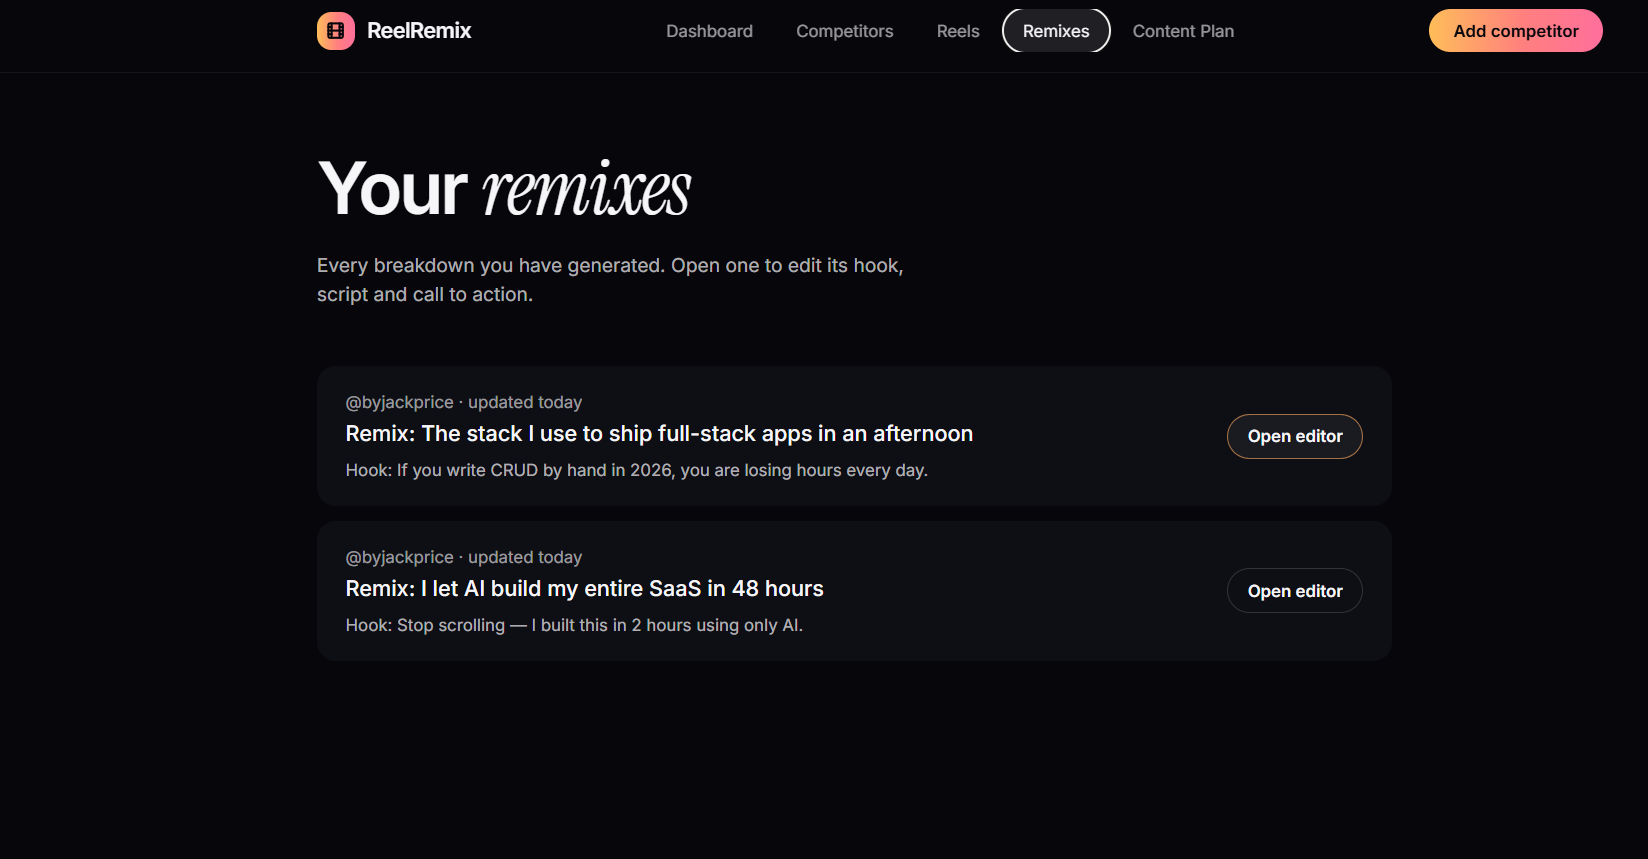
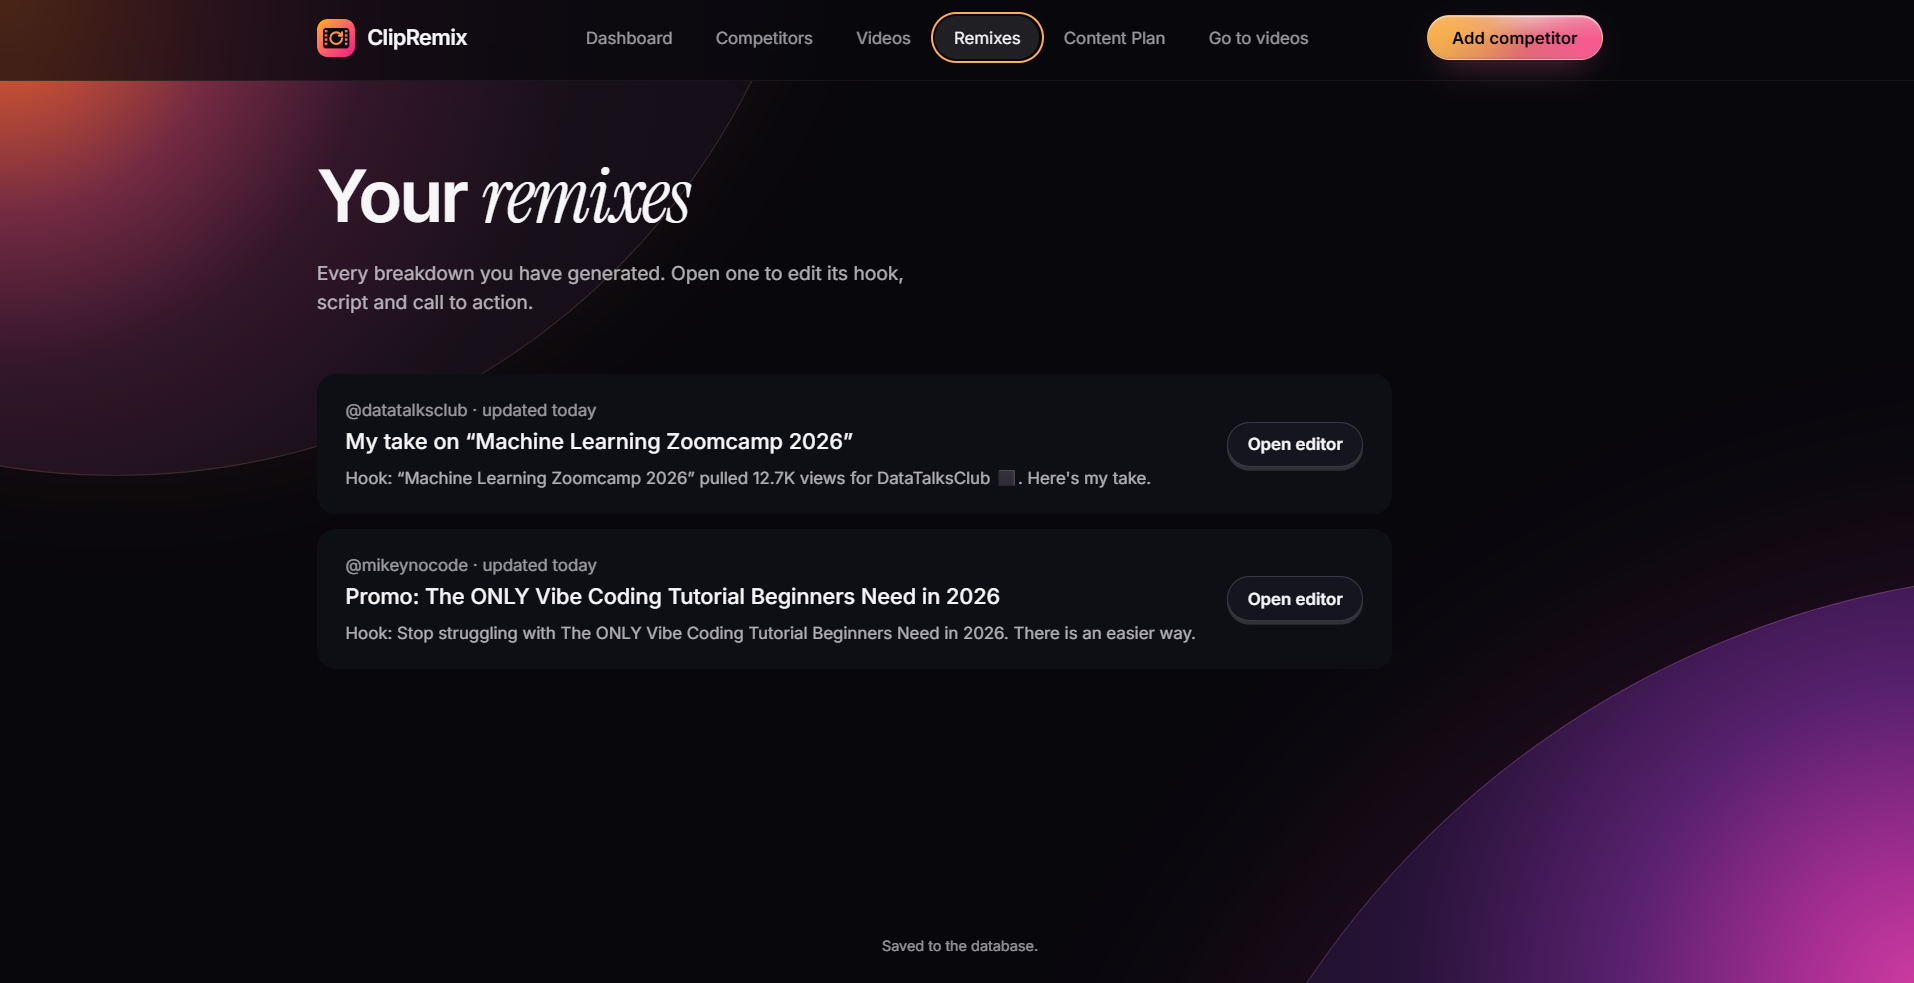
Replace the videos, remixes and content plan screenshots
New screenshots of the current app, supplied by the user:

- videos.webp: Videos page, grid view (replaces reels.webp)
- videos-list.webp: Videos page, list view (replaces reels-list.png)
- remixes.png: Remixes page
- content-plan.png and content-plan-table.png: Content Plan board and table
  with dates and the production checklist

The main Competitors image now uses the tracked-competitors screenshot, so
the old competitors.png is removed. Labels say Videos instead of Reels; only
the remix editor and add-competitor screenshots still show the Instagram
version.

Claude-Session: https://claude.ai/code/session_01KJiisy2pjBANFoHMe2gvmn

diff --git a/README.md b/README.md
@@ -9,25 +9,25 @@ Track competitor YouTube channels, pull their latest videos into a library, gene
 
 ## Screenshots
 
-The Dashboard and Tracked competitors screenshots show the current ClipRemix app. The others still show the earlier Instagram version; the layout is the same, and video thumbnails are now 16:9.
-
-| Dashboard | Reels | Content plan (board) | Content plan (table) |
+| Dashboard | Videos | Content plan (board) | Content plan (table) |
 | --- | --- | --- | --- |
-| ![Dashboard](docs/screenshots/dashboard.webp) | ![Reels](docs/screenshots/reels.webp) | ![Content plan board](docs/screenshots/content-plan.png) | ![Content plan table](docs/screenshots/content-plan-table.png) |
+| ![Dashboard](docs/screenshots/dashboard.webp) | ![Videos](docs/screenshots/videos.webp) | ![Content plan board](docs/screenshots/content-plan.png) | ![Content plan table](docs/screenshots/content-plan-table.png) |
 
 | Competitors | Remixes | Remix editor |
 | --- | --- | --- |
-| ![Competitors](docs/screenshots/competitors.png) | ![Remixes](docs/screenshots/remixes.png) | ![Remix editor](docs/screenshots/remix-editor.png) |
+| ![Competitors](docs/screenshots/competitors-tracked.png) | ![Remixes](docs/screenshots/remixes.png) | ![Remix editor](docs/screenshots/remix-editor.png) |
 
 ### More screens
 
-| Reels list with competitor filter | Tracked competitors | Add a competitor |
-| --- | --- | --- |
-| ![Reels list](docs/screenshots/reels-list.png) | ![Tracked competitors](docs/screenshots/competitors-tracked.png) | ![Add a competitor](docs/screenshots/add-competitor.png) |
+| Videos list | Add a competitor |
+| --- | --- |
+| ![Videos list](docs/screenshots/videos-list.webp) | ![Add a competitor](docs/screenshots/add-competitor.png) |
 
 | Dashboard: top videos and channels | Dashboard: totals and progress | Dashboard: recent videos |
 | --- | --- | --- |
 | ![Dashboard top videos and channels](docs/screenshots/dashboard-videos.webp) | ![Dashboard totals and progress](docs/screenshots/dashboard-totals.png) | ![Dashboard recent videos](docs/screenshots/dashboard-recent.png) |
+
+The Remix editor and Add a competitor screenshots still show the earlier Instagram version.
 
 ## Run it locally
 
